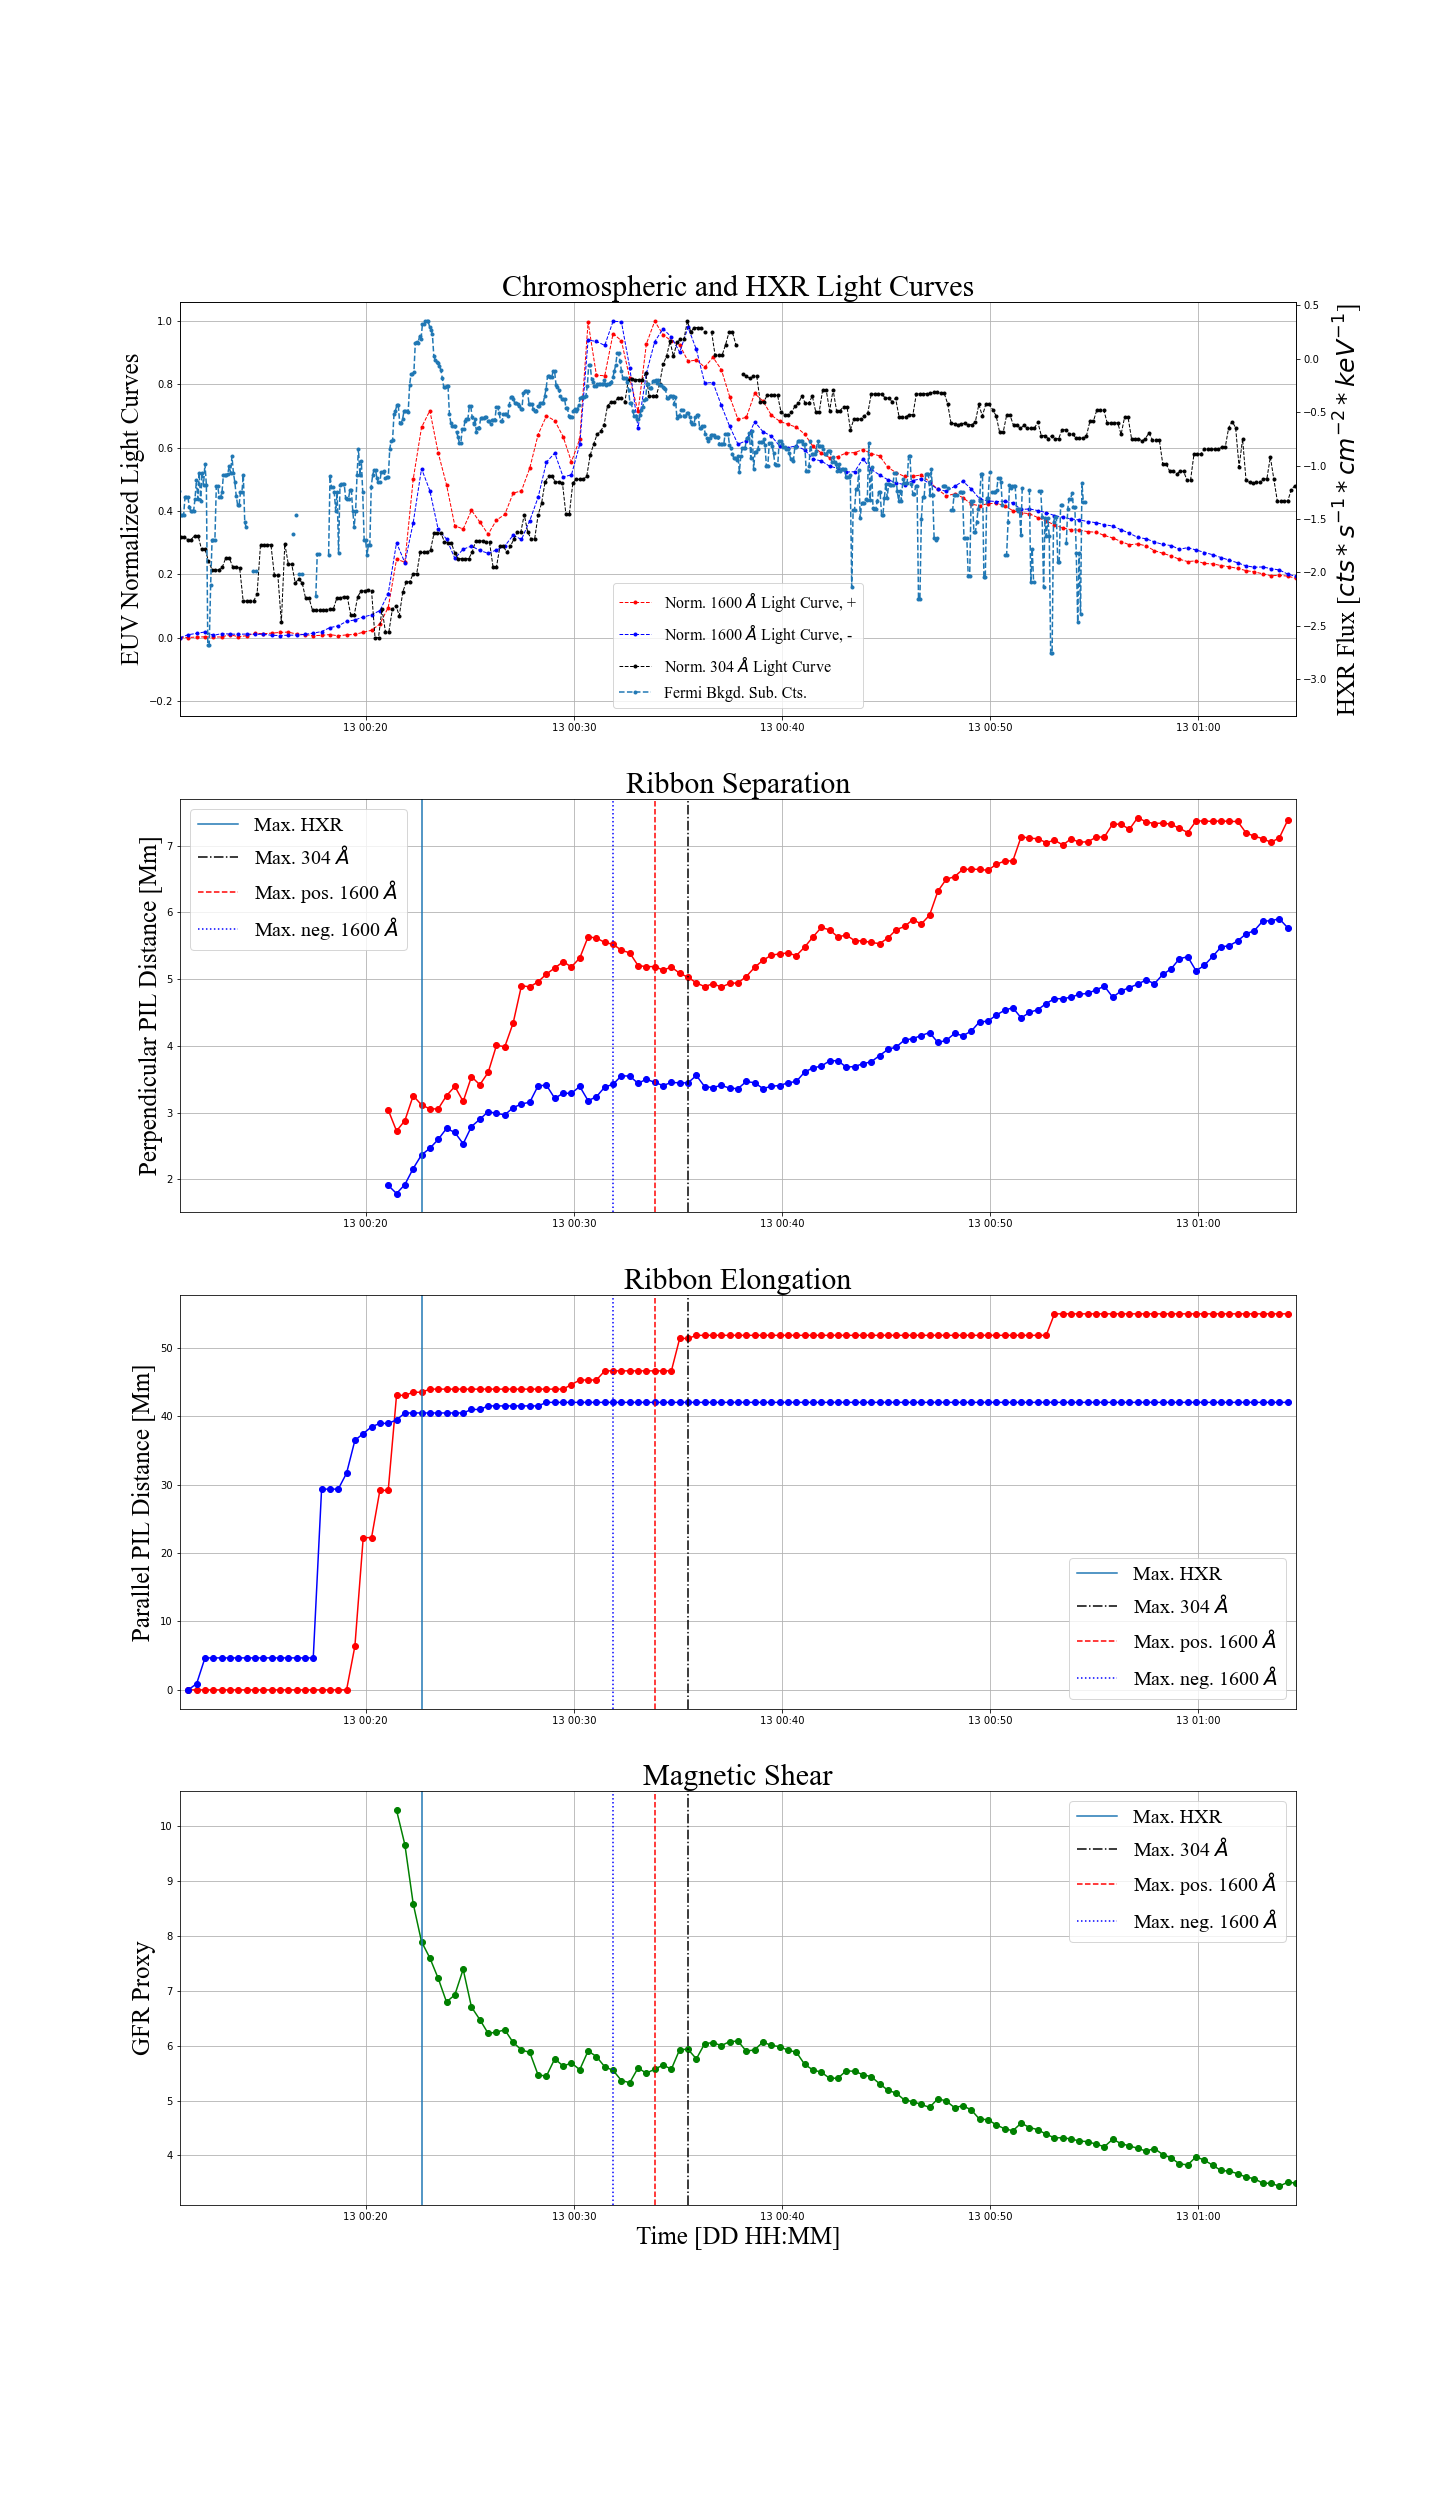
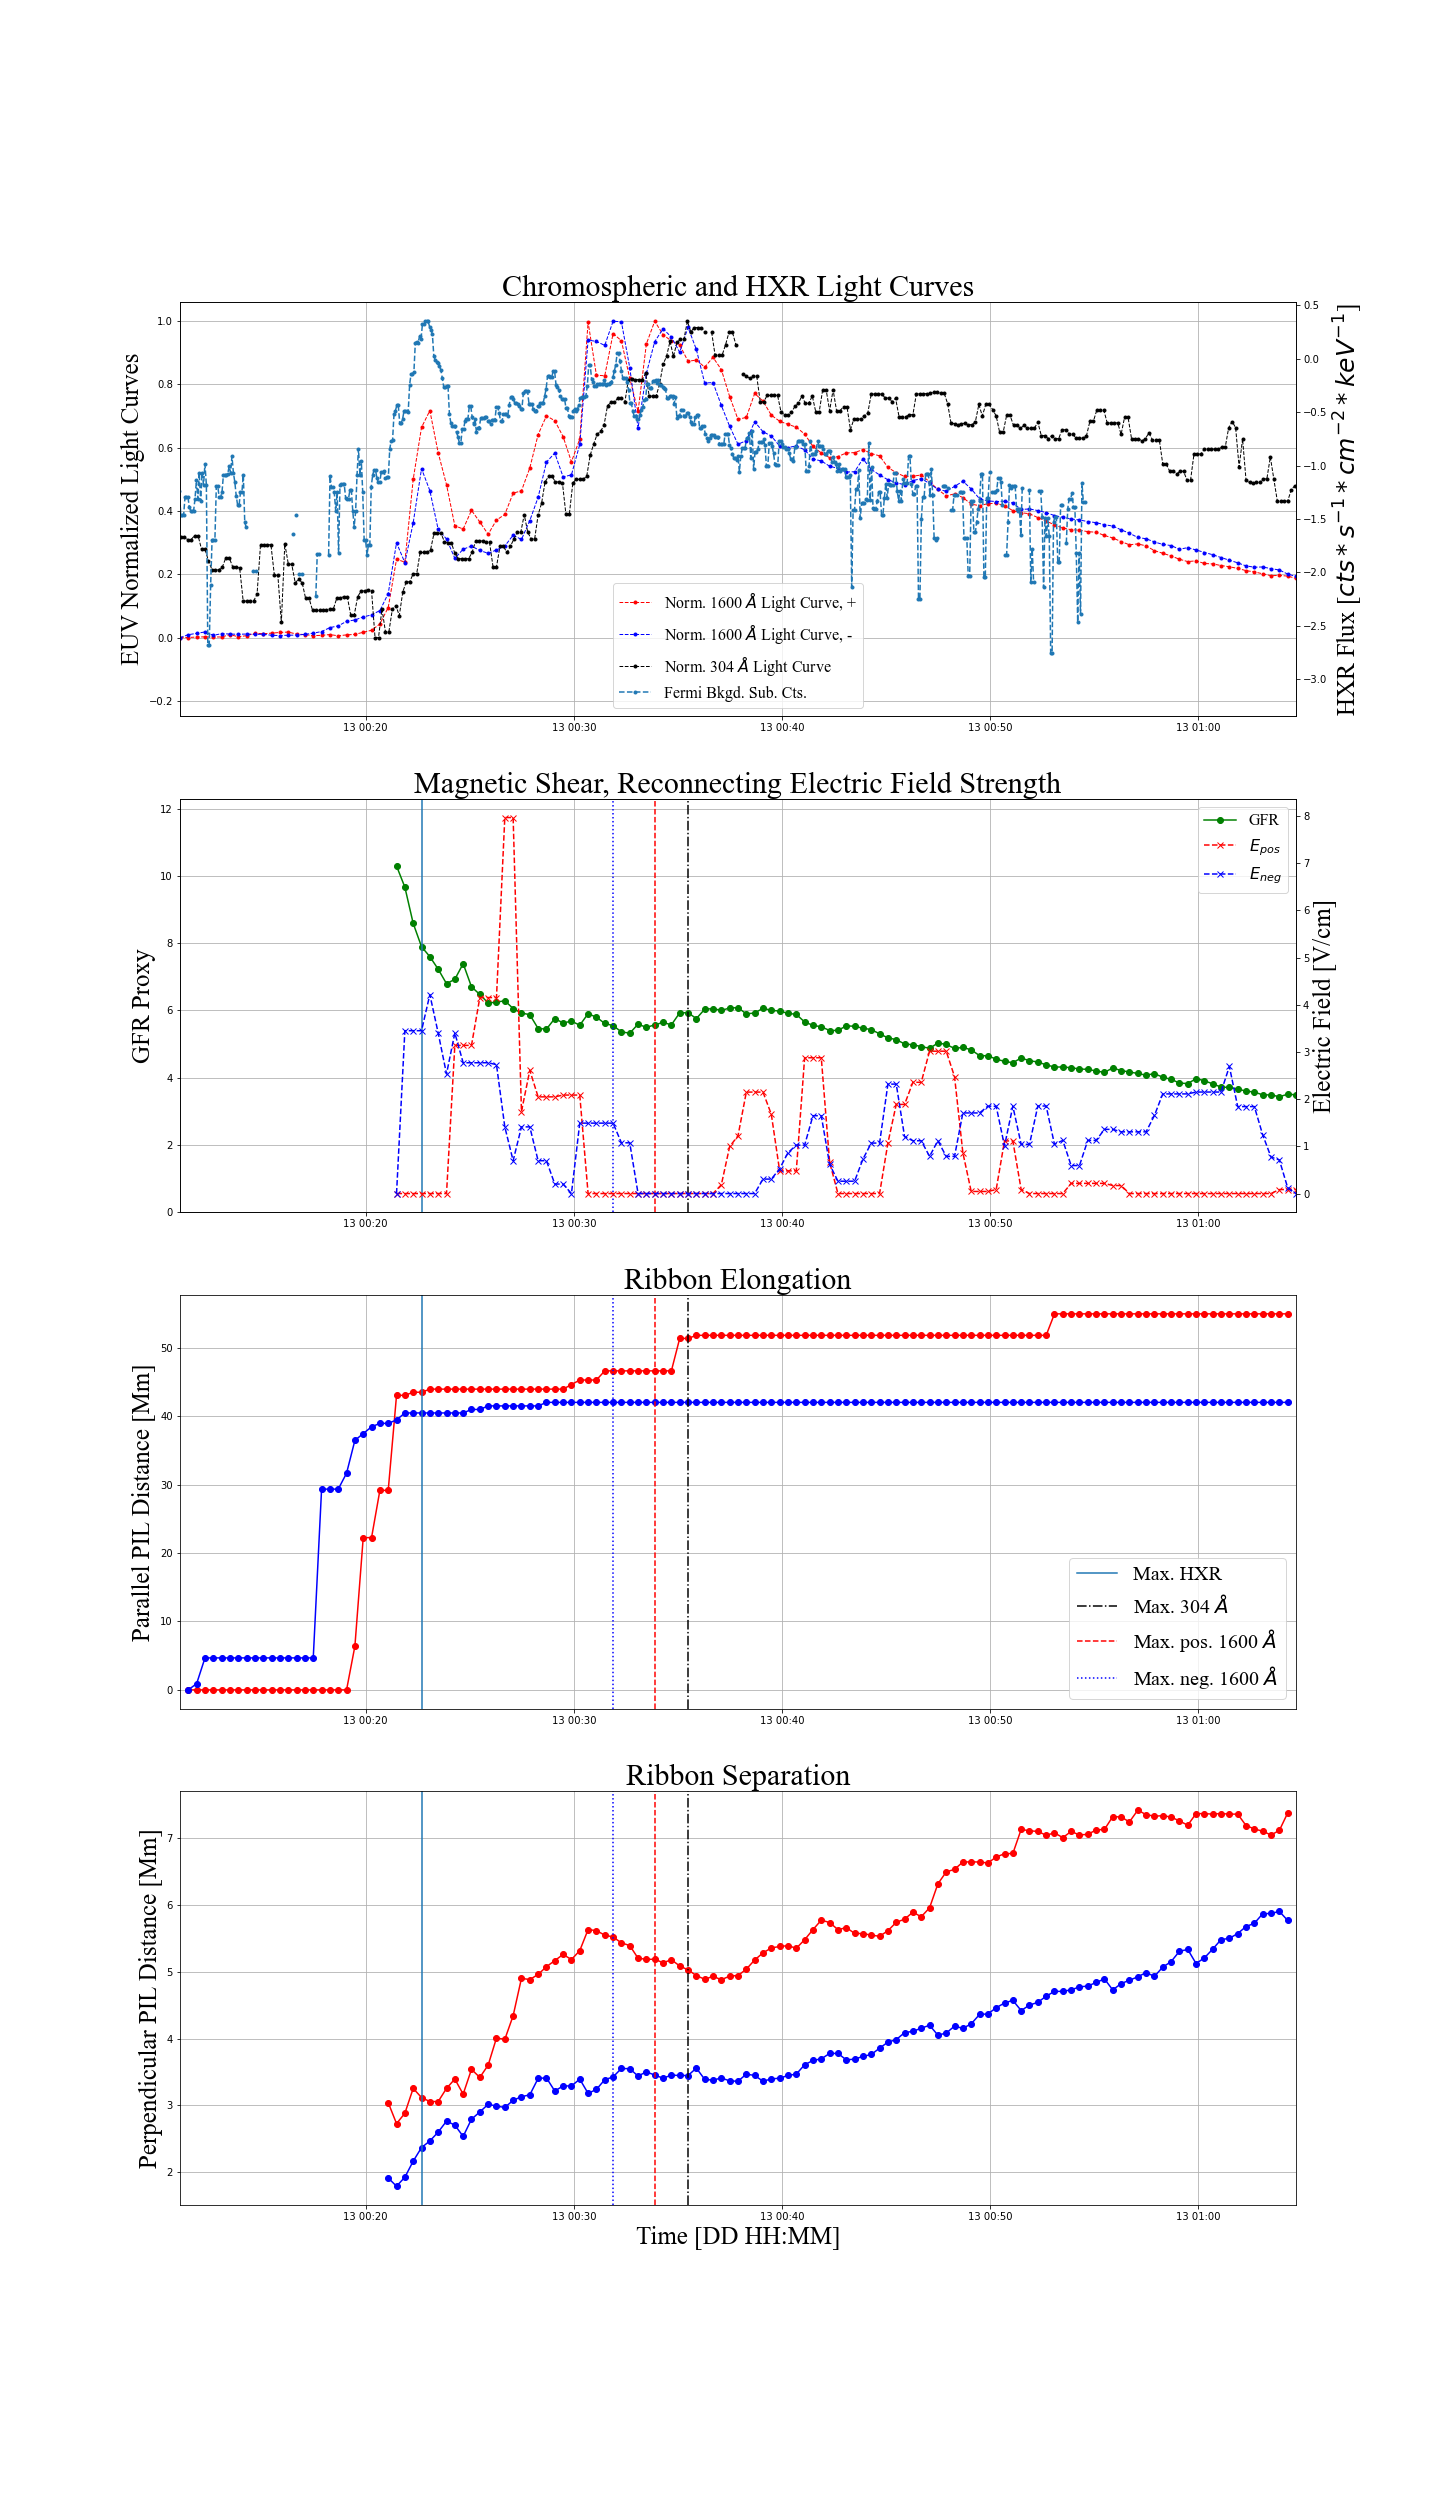
Modification to fourpanel plot

diff --git a/fl_funcs.py b/fl_funcs.py
@@ -3985,7 +3985,7 @@ def E_field_det(conv_f, distpos, distneg, timelab, hmi_dat, pos_rem, neg_rem,
     
     ax.plot(time_E[0:-1]/60, E_pos, '--ro', label = '$E_{pos}$')
     ax.plot(time_E[0:-1]/60, E_neg, '--bo', label = '$E_{neg}$')
-    ax.set_xlabel('Time [min since'+s[5:-7]+']',font = 'Times New Roman',
+    ax.set_xlabel('Time [min since '+s[5:-7]+']',font = 'Times New Roman',
                   fontsize=18)
     ax.set_xlim([0,time_E[-1]/60])
     ax.grid()
@@ -4008,10 +4008,10 @@ def plt_fourpanel(times, right_gfr, left_gfr, flnum, dt1600, time304,
                   sepperiod_start_neg, sepperiod_end_neg, exp_ind,
                   s304, e304, pos1600, neg1600, dn1600, indstrt_elon,
                   indstrt_sep, fermitimes, raw_hxr_sum, cspec_hxr_sum,
-                  gfr_trans, low_hxr=0, high_hxr=800,  period_flag=0,
-                  flag = 0):
+                  gfr_trans, E_pos, E_neg, time_E, low_hxr=0, high_hxr=800,
+                  period_flag=0, flag = 0):
     """
-    Four panel plot to compare HXR/1600 Angstrom/304 Angstrom (panel 1), 
+    Four-panel plot to compare HXR/1600 Angstrom/304 Angstrom (panel 1), 
     ribbon separation (panel 2), ribbon elongation (panel 3), guide field ratio
     proxy (panel 4, a measurement of shear).  the peak times for the Fermi HXR
     25-300 keV band, 304 Angstrom light curve, and 1600 Angstrom light curves
@@ -4172,19 +4172,17 @@ def plt_fourpanel(times, right_gfr, left_gfr, flnum, dt1600, time304,
                   font='Times New Roman', fontsize=30)
     ax1.set_xlim([dt1600[0], dt1600[-1]])
 
-    ax2.plot(dt1600[indstrt_sep:-1], distpos_Mm[indstrt_sep:-1], '-o', c='red',
-             markersize=6)
 
-    ax2.plot(dt1600[indstrt_sep:-1], distneg_Mm[indstrt_sep:-1], '-o',
-             c='blue', markersize=6)
+    lns1 = ax2.plot(dt1600[gfr_trans:], GFR[gfr_trans:], c='green', marker='o',
+                    label = 'GFR')
 
-    ax2.set_ylabel(
-        'Perpendicular PIL Distance [Mm]', font='Times New Roman', fontsize=25)
-    ax2.set_title('Ribbon Separation',
-                  font='Times New Roman', fontsize=30)
+
+    ax2.set_ylabel('GFR Proxy', font='Times New Roman', fontsize=25)
+    ax2.set_title('Magnetic Shear, Reconnecting Electric Field Strength', font='Times New Roman', fontsize=30)
+    ax2.set_ylim([0,np.nanmax(GFR)+2])
+    ax2.grid()
 
     ax2.set_xlim([dt1600[0], dt1600[-1]])
-
     ax2.axvline(dt1600[hxrmax], label='Max. HXR')
     ax2.axvline(dt1600[max304], color='black',
                 label=r'Max. 304 $\AA$', linestyle='dashdot')
@@ -4192,11 +4190,27 @@ def plt_fourpanel(times, right_gfr, left_gfr, flnum, dt1600, time304,
                 label=r'Max. pos. 1600 $\AA$', linestyle='dashed')
     ax2.axvline(dt1600[max1600neg], color='blue',
                 label=r'Max. neg. 1600 $\AA$', linestyle='dotted')
-    ax2.grid()
+    font = font_manager.FontProperties(family='Times New Roman',
+                                       style='normal', size=20)
+    ax2.legend(prop=font, fontsize=20)    
+    ax2_0 = ax2.twinx()
+    lns2 = ax2_0.plot(dt1600[gfr_trans:], E_pos, '--rx', label = '$E_{pos}$')
+    lns3 = ax2_0.plot(dt1600[gfr_trans:], E_neg, '--bx', label = '$E_{neg}$')
+
+    ax2_0.set_xlim([dt1600[0], dt1600[-1]])
+
+    ax2_0.set_ylabel('Electric Field [V/cm]',font='Times New Roman',
+                  fontsize=25)
+
+
     font = font_manager.FontProperties(family='Times New Roman',
                                        style='normal', size=20)
 
-    ax2.legend(prop=font, fontsize=20)
+    lns = lns1+lns2+lns3
+    labs = [k.get_label() for k in lns]
+    font = font_manager.FontProperties(family='Times New Roman',
+                                       style='normal', size=16)
+    ax2.legend(lns, labs, prop=font, fontsize=20)
 
     # regions of separation/elongation make a little busy?
 
@@ -4236,8 +4250,31 @@ def plt_fourpanel(times, right_gfr, left_gfr, flnum, dt1600, time304,
 
     ax3.legend(prop=font, fontsize=20)
 
-    # definitely optional...
 
+    ax4.plot(dt1600[indstrt_sep:-1], distpos_Mm[indstrt_sep:-1], '-o', c='red',
+             markersize=6)
+
+    ax4.plot(dt1600[indstrt_sep:-1], distneg_Mm[indstrt_sep:-1], '-o',
+             c='blue', markersize=6)
+
+    ax4.set_ylabel(
+        'Perpendicular PIL Distance [Mm]', font='Times New Roman', fontsize=25)
+    ax4.set_title('Ribbon Separation',
+                  font='Times New Roman', fontsize=30)
+
+    ax4.set_xlim([dt1600[0], dt1600[-1]])
+
+    ax4.axvline(dt1600[hxrmax], label='Max. HXR')
+    ax4.axvline(dt1600[max304], color='black',
+                label=r'Max. 304 $\AA$', linestyle='dashdot')
+    ax4.axvline(dt1600[max1600pos], color='red',
+                label=r'Max. pos. 1600 $\AA$', linestyle='dashed')
+    ax4.axvline(dt1600[max1600neg], color='blue',
+                label=r'Max. neg. 1600 $\AA$', linestyle='dotted')
+    ax4.grid()
+    ax4.set_xlabel('Time [DD HH:MM]', font='Times New Roman',
+                   fontsize=25)
+    
     if period_flag == 1:
         for i, j in zip(elonperiod_start_pos, elonperiod_end_pos):
             ax3.axvline(dt1600[i], c='green')
@@ -4248,25 +4285,6 @@ def plt_fourpanel(times, right_gfr, left_gfr, flnum, dt1600, time304,
             ax3.axvline(dt1600[l], c='red')
             ax3.axvspan(dt1600[k], dt1600[l], alpha=0.5, color='cyan')
 
-    ax4.plot(dt1600[gfr_trans:], GFR[gfr_trans:], c='green', marker='o')
-    ax4.set_xlabel('Time [DD HH:MM]', font='Times New Roman',
-                   fontsize=25)
-    ax4.set_ylabel('GFR Proxy', font='Times New Roman', fontsize=25)
-    ax4.set_title('Magnetic Shear', font='Times New Roman', fontsize=30)
-    ax4.grid()
-    ax4.legend(fontsize=15)
-
-    ax4.set_xlim([dt1600[0], dt1600[-1]])
-    ax4.axvline(dt1600[hxrmax], label='Max. HXR')
-    ax4.axvline(dt1600[max304], color='black',
-                label=r'Max. 304 $\AA$', linestyle='dashdot')
-    ax4.axvline(dt1600[max1600pos], color='red',
-                label=r'Max. pos. 1600 $\AA$', linestyle='dashed')
-    ax4.axvline(dt1600[max1600neg], color='blue',
-                label=r'Max. neg. 1600 $\AA$', linestyle='dotted')
-    font = font_manager.FontProperties(family='Times New Roman',
-                                       style='normal', size=20)
-    ax4.legend(prop=font, fontsize=20)
 
     fig.savefig(str(flnum) + '_summary.png')
 

diff --git a/low1_process.py b/low1_process.py
@@ -285,7 +285,8 @@ fl_funcs.plt_fourpanel(times, right_gfr, left_gfr, flnum, dt1600, time304,
                   sepperiod_start_neg, sepperiod_end_neg, exp_ind,
                   s304, e304, pos1600, neg1600, dn1600, indstrt_elon, 
                   indstrt_sep, fermitimes, raw_hxr_sum, cspec_hxr_sum,
-                  gfr_trans, low_hxr=0, high_hxr=800,  period_flag = 0)
+                  gfr_trans, E_pos, E_neg, time_E,
+                  low_hxr=0, high_hxr=800,  period_flag = 0)
 
 # Electric field computation
 
